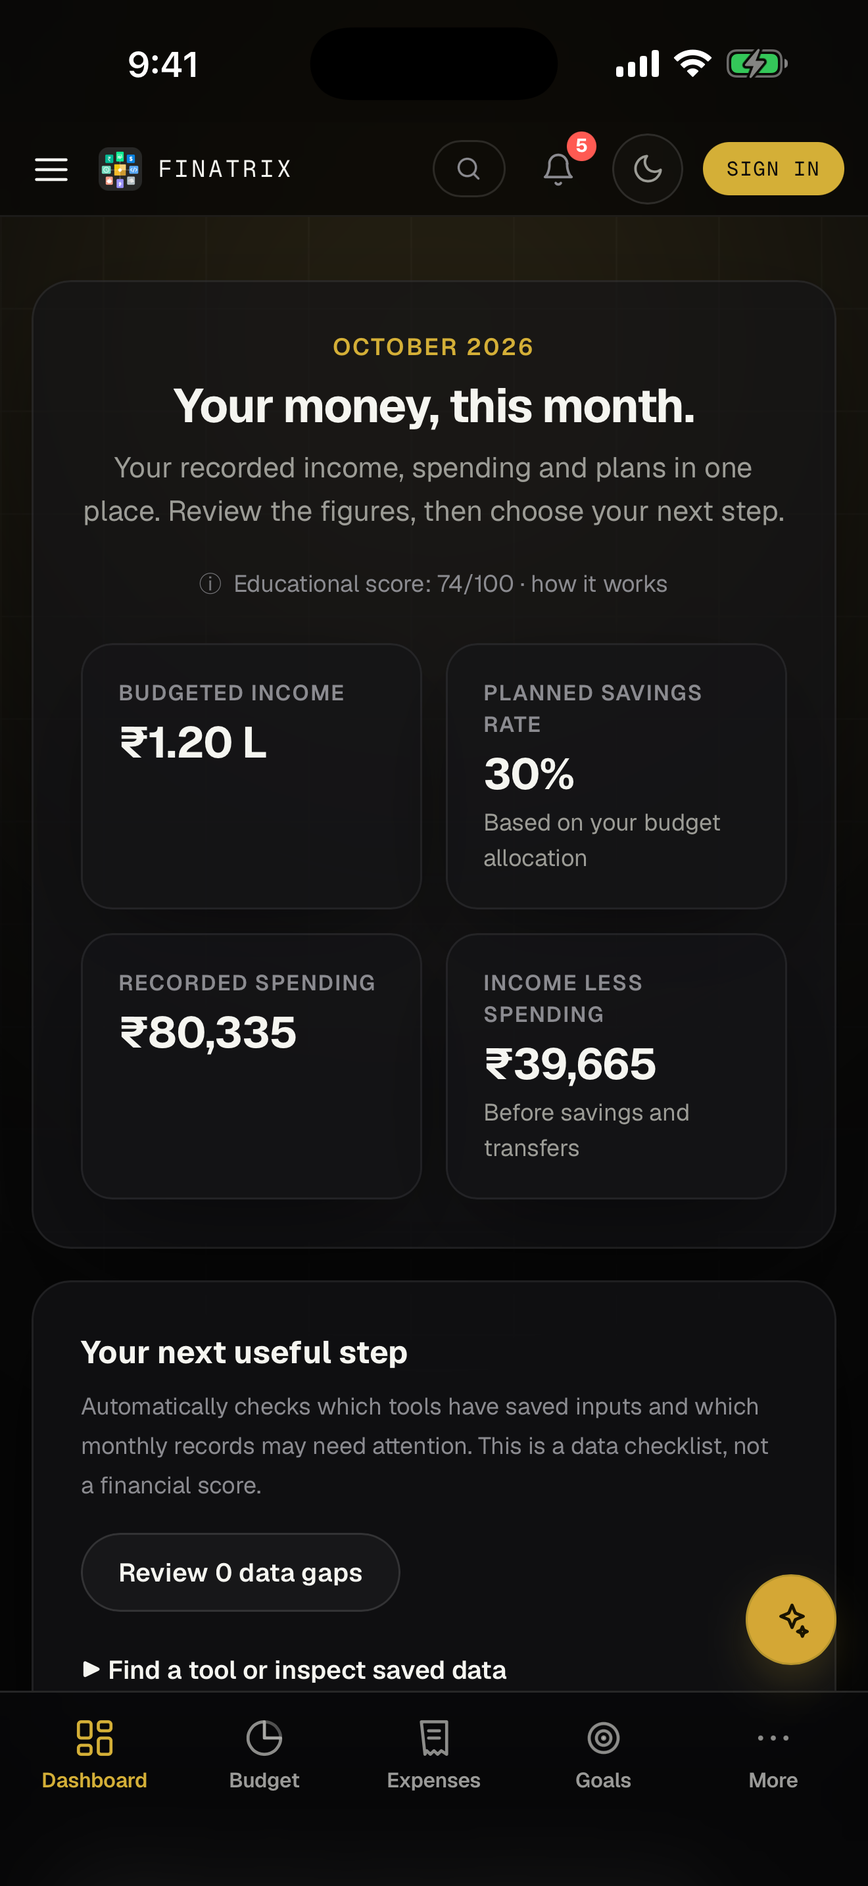
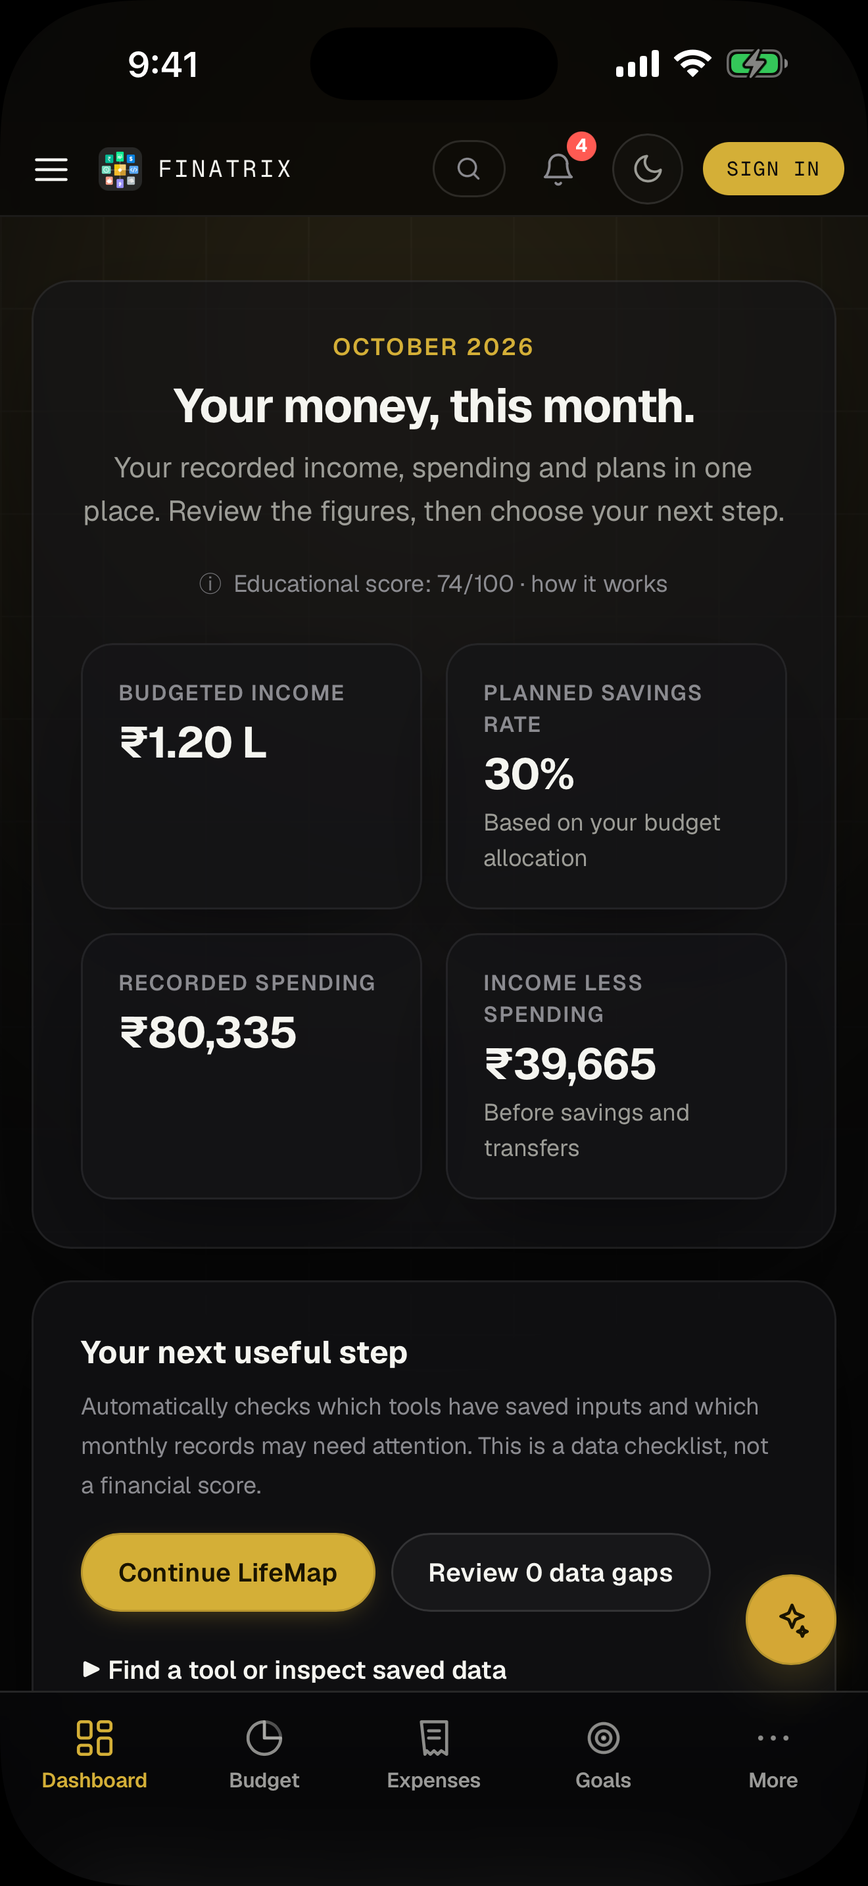
Run on the WebView 91 phones we can support, and keep PDF import honest
Builds on the WebView gate: instead of turning away every WebView older
than the compile target, the bundle now targets Chrome 91 / Safari 15.4
(the iOS deployment target) and a tiny classic script, public/compat.js,
supplies the two built-ins WebView 91 lacks (Array.prototype.at,
Object.hasOwn) before the module graph starts. Verified on an Android 11
emulator with its factory WebView 91: every tool, Reports, Settings and
sign-in render with no console errors. Older WebViews (66, 53) still get
the update prompt, which is now blocking (Update / Close app) because
"continue" only led back to a blank screen.

PDF statement and résumé import use pdf.js's legacy build, whose official
floor is Chrome 125 / Safari 18; below that the import sheet says PDF is
unavailable and offers CSV, Excel or a photo instead of failing mid-read.
XLSX import gains a lazy, size-capped fflate inflater for WebKit builds
without DecompressionStream('deflate-raw') (iOS 15.4-16.3).

Also: the AI panel records its opener before the page becomes inert (an
inert element loses focus, so reading it afterwards found <body>); peer
comparison checkboxes get 24px targets (WCAG 2.5.8); iOS App Store
screenshots 1-6 (opaque 1320x2868, fictional data) with a repeatable
capture script; e2e/compatibility-import.spec.ts reads a real PDF in
Chromium, Pixel 7 and WebKit.

Changed region(s): [[0.0932, 0.8068, 0.4348, 0.8689], [0.497, 0.8068, 0.7765, 0.8379]]

diff --git a/src/test/xlsxImport.test.ts b/src/test/xlsxImport.test.ts
@@ -1,4 +1,5 @@
-import { describe, it, expect } from 'vitest';
+import { describe, it, expect, vi } from 'vitest';
+import { deflateRawSync } from 'node:zlib';
 import { readWorkbookGrid } from '../tools/lib/import/xlsx';
 import { parseStatementMatrix } from '../tools/lib/import/csv';
 import { buildDrafts } from '../tools/lib/import/draft';
@@ -39,7 +40,7 @@ function u32(n: number): number[] {
  * directory walk; the inflate path is the platform's own DecompressionStream
  * and is not this reader's code to prove.
  */
-function zip(parts: Part[]): Uint8Array {
+function zip(parts: Part[], method = 0): Uint8Array {
   const encoder = new TextEncoder();
   const local: number[] = [];
   const central: number[] = [];
@@ -48,23 +49,25 @@ function zip(parts: Part[]): Uint8Array {
   for (const part of parts) {
     const name = encoder.encode(part.name);
     const body = encoder.encode(part.body);
+    const compressed = method === 8 ? deflateRawSync(body) : body;
     offsets.push(local.length);
     local.push(
-      ...u32(0x04034b50), ...u16(20), ...u16(0), ...u16(0), ...u16(0), ...u16(0),
+      ...u32(0x04034b50), ...u16(20), ...u16(0), ...u16(method), ...u16(0), ...u16(0),
       ...u32(0),                    // crc32 — not checked by the reader
-      ...u32(body.length), ...u32(body.length),
+      ...u32(compressed.length), ...u32(body.length),
       ...u16(name.length), ...u16(0),
-      ...name, ...body,
+      ...name, ...compressed,
     );
   }
 
   parts.forEach((part, i) => {
     const name = encoder.encode(part.name);
     const body = encoder.encode(part.body);
+    const compressed = method === 8 ? deflateRawSync(body) : body;
     central.push(
-      ...u32(0x02014b50), ...u16(20), ...u16(20), ...u16(0), ...u16(0), ...u16(0), ...u16(0),
+      ...u32(0x02014b50), ...u16(20), ...u16(20), ...u16(0), ...u16(method), ...u16(0), ...u16(0),
       ...u32(0),
-      ...u32(body.length), ...u32(body.length),
+      ...u32(compressed.length), ...u32(body.length),
       ...u16(name.length), ...u16(0), ...u16(0), ...u16(0), ...u16(0),
       ...u32(0), ...u32(offsets[i]),
       ...name,
@@ -89,18 +92,29 @@ const SHARED = (values: string[]) =>
 /** Style 0 is General; style 1 points at built-in date format 14 (dd/mm/yyyy). */
 const STYLES = `<?xml version="1.0"?><styleSheet xmlns="http://schemas.openxmlformats.org/spreadsheetml/2006/main"><cellXfs count="2"><xf numFmtId="0"/><xf numFmtId="14"/></cellXfs></styleSheet>`;
 
-function workbook(sheet: string, shared: string[] = [], styles = STYLES): File {
+function workbook(sheet: string, shared: string[] = [], styles = STYLES, compressed = false): File {
   const bytes = zip([
     { name: 'xl/worksheets/sheet1.xml', body: sheet },
     { name: 'xl/sharedStrings.xml', body: SHARED(shared) },
     { name: 'xl/styles.xml', body: styles },
-  ]);
+  ], compressed ? 8 : 0);
   return new File([bytes as BlobPart], 'statement.xlsx');
 }
 
 /* ── The tests ──────────────────────────────────────────────────────────── */
 
 describe('reading an .xlsx', () => {
+  it('reads a compressed workbook without DecompressionStream on older WebKit', async () => {
+    vi.stubGlobal('DecompressionStream', undefined);
+    try {
+      const sheet = SHEET_XML('<row r="1"><c r="A1" t="s"><v>0</v></c><c r="B1"><v>1250.5</v></c></row>');
+      expect(await readWorkbookGrid(workbook(sheet, ['Blue Bottle'], STYLES, true)))
+        .toEqual([['Blue Bottle', '1250.5']]);
+    } finally {
+      vi.unstubAllGlobals();
+    }
+  });
+
   it('reads a grid, resolving text through the shared string table', async () => {
     // Text in a worksheet is a POINTER into sharedStrings, not a literal. A
     // reader that skips that table sees a grid of numbers with no descriptions,

diff --git a/src/tools/lib/import/xlsx.ts b/src/tools/lib/import/xlsx.ts
@@ -26,8 +26,8 @@
  * `DOMParser`, which the browser already has and which does not resolve
  * external entities.
  *
- * The ZIP is inflated with `DecompressionStream('deflate-raw')` — a platform
- * API, no dependency, and one that cannot be made to execute anything. What
+ * The ZIP is inflated with `DecompressionStream('deflate-raw')` when available.
+ * Older WKWebViews use a small, lazy-loaded fflate fallback instead. What
  * this file adds is about 150 lines of central-directory walking, which is a
  * far smaller and far more auditable surface than a general-purpose workbook
  * parser that also understands formulas, macros and defined names.
@@ -157,12 +157,40 @@ async function readEntry(bytes: Uint8Array, view: DataView, entry: ZipEntry): Pr
   if (entry.method !== 8) {
     throw new StatementParseError('This spreadsheet uses a compression method FinatriX cannot read. Please save it as .xlsx or export it as CSV.');
   }
-  if (typeof DecompressionStream !== 'function') {
-    throw new StatementParseError('This browser cannot open spreadsheets. Please export the statement as CSV instead.');
+  let nativeInflater: DecompressionStream | null = null;
+  try {
+    if (typeof DecompressionStream === 'function') nativeInflater = new DecompressionStream('deflate-raw');
+  } catch {
+    // Some engines expose DecompressionStream but do not accept deflate-raw.
+  }
+  if (!nativeInflater) {
+    // The fallback is loaded only when an older WebView opens a compressed
+    // spreadsheet. Feed small compressed chunks so a false ZIP size cannot
+    // allocate unbounded output before the declared and absolute caps apply.
+    try {
+      const { Inflate } = await import('fflate');
+      const decoder = new TextDecoder();
+      let total = 0;
+      let text = '';
+      const inflate = new Inflate((chunk) => {
+        total += chunk.byteLength;
+        if (total > MAX_XML_BYTES || total > entry.uncompressedSize) throw new StatementParseError(TOO_LARGE);
+        text += decoder.decode(chunk, { stream: true });
+      });
+      for (let offset = 0; offset < body.length; offset += 8192) {
+        const end = Math.min(offset + 8192, body.length);
+        inflate.push(body.subarray(offset, end), end === body.length);
+      }
+      if (total !== entry.uncompressedSize) throw new StatementParseError(DAMAGED);
+      return text + decoder.decode();
+    } catch (error) {
+      if (error instanceof StatementParseError) throw error;
+      throw new StatementParseError('Could not decompress this spreadsheet. Please re-export it or use CSV.');
+    }
   }
   try {
     const reader = new Blob([body as BlobPart]).stream()
-      .pipeThrough(new DecompressionStream('deflate-raw')).getReader();
+      .pipeThrough(nativeInflater).getReader();
     const decoder = new TextDecoder();
     let total = 0;
     let text = '';

diff --git a/src/tools/ui/PublishedPeerComparison.tsx b/src/tools/ui/PublishedPeerComparison.tsx
@@ -71,12 +71,12 @@ export function PublishedPeerComparison({ market }: { market: MarketPack }) {
       </div>}
       <h2 style={{ fontSize: 17 }}>Check that like is being compared with like</h2>
       <p className="note">{[confirmed, definitionChecked, periodChecked].filter(Boolean).length} of 3 matching checks complete. If any check is uncertain, use the published figure as context without generating a personal comparison.</p>
-      <label style={{ display: 'flex', alignItems: 'center', gap: 12, minHeight: 48, margin: '14px 0' }}>
+      <label className="fx-peer-check" style={{ display: 'flex', alignItems: 'center', gap: 12, minHeight: 48, margin: '14px 0' }}>
         <input type="checkbox" checked={confirmed} onChange={(e) => { setConfirmed(e.target.checked); setResult(null); }} />
         My figure matches the reference population and household or person basis.
       </label>
-      <label style={{ display: 'flex', alignItems: 'center', gap: 12, minHeight: 48, margin: '14px 0' }}><input type="checkbox" checked={definitionChecked} onChange={(e) => { setDefinitionChecked(e.target.checked); setResult(null); }} />My figure follows the stated income or net-worth definition.</label>
-      <label style={{ display: 'flex', alignItems: 'center', gap: 12, minHeight: 48, margin: '14px 0' }}><input type="checkbox" checked={periodChecked} onChange={(e) => { setPeriodChecked(e.target.checked); setResult(null); }} />My figure uses {row.currency}, {row.unit}, and the {row.period} price and reporting period.</label>
+      <label className="fx-peer-check" style={{ display: 'flex', alignItems: 'center', gap: 12, minHeight: 48, margin: '14px 0' }}><input type="checkbox" checked={definitionChecked} onChange={(e) => { setDefinitionChecked(e.target.checked); setResult(null); }} />My figure follows the stated income or net-worth definition.</label>
+      <label className="fx-peer-check" style={{ display: 'flex', alignItems: 'center', gap: 12, minHeight: 48, margin: '14px 0' }}><input type="checkbox" checked={periodChecked} onChange={(e) => { setPeriodChecked(e.target.checked); setResult(null); }} />My figure uses {row.currency}, {row.unit}, and the {row.period} price and reporting period.</label>
       {error && <p role="alert">{error}</p>}
       <button className="btn" type="submit">Compare matching figures</button>
       {result !== null && <div role="status" style={{ marginTop: 20 }}>

diff --git a/src/test/webviewFloor.test.ts b/src/test/webviewFloor.test.ts
@@ -1,12 +1,11 @@
 import { describe, expect, it } from 'vitest';
 import { readFileSync } from 'node:fs';
 import { resolve } from 'node:path';
+import { runInNewContext } from 'node:vm';
 
 /**
  * The Android app checks the WebView version at launch and offers an update
- * below MainActivity.MIN_WEBVIEW_MAJOR — because below the engines the bundle
- * is compiled for, it does not degrade, it renders nothing (measured: WebView
- * 91 stops at the first `Array.prototype.at`). The gate is only honest while it
+ * below MainActivity.MIN_WEBVIEW_MAJOR. The gate is only honest while it
  * equals the build target, so the two are read from source and compared.
  */
 const read = (p: string) => readFileSync(resolve(__dirname, '../..', p), 'utf8');
@@ -29,6 +28,16 @@ describe('Android WebView floor', () => {
   it('reads the version from the WebView in use and offers the store page, not a dead end', () => {
     expect(activity).toMatch(/WebSettings\.getDefaultUserAgent/);
     expect(activity).toMatch(/market:\/\/details\?id=/);
-    expect(activity).toMatch(/webview_outdated_continue/);
+    expect(activity).toMatch(/webview_outdated_close/);
+    expect(activity).toMatch(/setCancelable\(false\)/);
+    expect(activity).toMatch(/getButton\(AlertDialog\.BUTTON_POSITIVE\)\.setOnClickListener/);
+  });
+
+  it('loads the missing built-ins before the module graph starts', () => {
+    const html = read('index.html');
+    expect(html.indexOf('src="/compat.js"')).toBeGreaterThan(0);
+    expect(html.indexOf('src="/compat.js"')).toBeLessThan(html.indexOf('src="/src/main.tsx"'));
+    const result = runInNewContext(`Array.prototype.at = undefined; Object.hasOwn = undefined; ${read('public/compat.js')}; [1, 2, 3].at(-1) + Number(Object.hasOwn({ x: 1 }, 'x'))`);
+    expect(result).toBe(4);
   });
 });

diff --git a/src/tools/ui/AiPanel.tsx b/src/tools/ui/AiPanel.tsx
@@ -49,6 +49,8 @@ const REVIEW_PROMPT = 'Create a monthly review';
 export interface AiPanelProps {
   id: string;
   onClose: () => void;
+  /** Captured before the dialog makes the underlying page inert. */
+  returnFocus?: HTMLElement | null;
   /** What the user was looking at when they opened it; null for the plain FAB. */
   focus?: AiFocus | null;
   /**
@@ -65,7 +67,7 @@ export default function AiPanel(props: AiPanelProps) {
   return <AccountAiPanel key={user?.id ?? 'signed-out'} {...props} />;
 }
 
-function AccountAiPanel({ id, onClose, focus = null, openedAt = 0 }: AiPanelProps) {
+function AccountAiPanel({ id, onClose, returnFocus = null, focus = null, openedAt = 0 }: AiPanelProps) {
   const { user, configured } = useAuth();
   const { code } = useCurrency();
   const uid = user?.id ?? '';
@@ -131,7 +133,7 @@ function AccountAiPanel({ id, onClose, focus = null, openedAt = 0 }: AiPanelProp
   // focus falls to the dialog itself rather than being left on <body>, where a
   // screen reader would never enter the dialog at all.
   useEffect(() => {
-    lastFocused.current = document.activeElement as HTMLElement | null;
+    lastFocused.current = returnFocus ?? document.activeElement as HTMLElement | null;
     const t = setTimeout(() => {
       // Something inside the dialog already has focus — the consent card's
       // "Allow and send", say — so this deferred default must not take it back.
@@ -145,7 +147,7 @@ function AccountAiPanel({ id, onClose, focus = null, openedAt = 0 }: AiPanelProp
       clearTimeout(t);
       lastFocused.current?.focus?.();
     };
-  }, []);
+  }, [returnFocus]);
 
   // The page behind is out of reach for swipe-driven screen readers too.
   useInertOutside(cardRef);

diff --git a/src/lib/pdfCompatibility.ts b/src/lib/pdfCompatibility.ts
@@ -1,0 +1,27 @@
+/**
+ * pdf.js 6's legacy distribution supports Chrome 125+ and Safari 18+.
+ * Keep its higher floor local to PDF import; calculators and CSV import work
+ * on older engines. The capability checks cover WebViews with unusual user
+ * agents, while the engine checks cover requirements a simple API probe misses.
+ */
+export function pdfCompatibilityMessage(userAgent: string = navigator.userAgent): string | null {
+  if (typeof Worker !== 'function' || typeof WebAssembly !== 'object' || typeof ReadableStream !== 'function') {
+    return 'PDF import is unavailable in this browser. Please import a CSV statement instead.';
+  }
+
+  const ios = /(?:iPhone|iPad|iPod).*?OS (\d+)[_.]/.exec(userAgent);
+  if (ios && Number(ios[1]) < 18) {
+    return 'PDF import needs iOS 18 or later. You can still import CSV or Excel statements on this device.';
+  }
+
+  const chromium = /(?:Chrome|Chromium|CriOS)\/(\d+)/.exec(userAgent);
+  if (chromium && Number(chromium[1]) < 125) {
+    return 'PDF import needs a newer Android System WebView or browser. Update it from the app store, or import a CSV or Excel statement.';
+  }
+
+  const safari = /Version\/(\d+)(?:\.\d+)?[^\n]*Safari\//.exec(userAgent);
+  if (safari && !chromium && Number(safari[1]) < 18) {
+    return 'PDF import needs Safari 18 or later. You can still import CSV or Excel statements.';
+  }
+  return null;
+}

diff --git a/src/tools/ui/StatementImport.tsx b/src/tools/ui/StatementImport.tsx
@@ -30,6 +30,7 @@ import { ACCEPT_ATTRIBUTE } from '../lib/import/extract';
 import { needsReview, isImportable } from '../lib/import/status';
 import { useStatementImport } from '../lib/import/useStatementImport';
 import { AI_RECIPIENT } from '../../lib/ai/consent';
+import { pdfCompatibilityMessage } from '../../lib/pdfCompatibility';
 import type { DraftRow, CategoryOrigin, ImportSummary } from '../lib/import/types';
 
 interface Props {
@@ -373,6 +374,7 @@ function IdlePane({
   onDiscard: () => void;
 }) {
   const inputId = useId();
+  const pdfUnavailable = pdfCompatibilityMessage();
 
   return (
     <div className="fx-imp-state">
@@ -396,9 +398,10 @@ function IdlePane({
       >
         <p className="fx-imp-state-title">Drop a bank or credit card statement</p>
         <p className="fx-imp-note">
-          CSV, Excel, PDF — or a screenshot or photo of one.
-          Password-protected PDFs are supported.
+          CSV, Excel{pdfUnavailable ? '' : ', PDF'} — or a screenshot or photo of one.
+          {!pdfUnavailable && ' Password-protected PDFs are supported.'}
         </p>
+        {pdfUnavailable && <p className="fx-imp-note" role="status">{pdfUnavailable}</p>}
         <label className="fx-imp-btn fx-imp-primary fx-imp-filebtn" htmlFor={inputId}>Choose a file</label>
         <input
           id={inputId}

diff --git a/src/test/pdfCompatibility.test.ts b/src/test/pdfCompatibility.test.ts
@@ -1,0 +1,26 @@
+import { describe, expect, it, vi } from 'vitest';
+import { pdfCompatibilityMessage } from '../lib/pdfCompatibility';
+
+describe('PDF stays an optional feature on older engines', () => {
+  it('explains the iOS and Android floors while leaving newer engines enabled', () => {
+    vi.stubGlobal('Worker', class {});
+    vi.stubGlobal('ReadableStream', class {});
+    vi.stubGlobal('WebAssembly', {});
+    try {
+      expect(pdfCompatibilityMessage('Mozilla/5.0 (iPhone; CPU iPhone OS 15_4 like Mac OS X) AppleWebKit/605.1.15 Mobile/15E148'))
+        .toMatch(/iOS 18/);
+      expect(pdfCompatibilityMessage('Mozilla/5.0 (Linux; Android 11) AppleWebKit/537.36 Chrome/91.0.4472.114 Mobile Safari/537.36'))
+        .toMatch(/newer Android System WebView/);
+      expect(pdfCompatibilityMessage('Mozilla/5.0 (Linux; Android 16) AppleWebKit/537.36 Chrome/133.0.0.0 Mobile Safari/537.36'))
+        .toBeNull();
+      expect(pdfCompatibilityMessage('Mozilla/5.0 (iPhone; CPU iPhone OS 18_0 like Mac OS X) AppleWebKit/605.1.15 Mobile/15E148'))
+        .toBeNull();
+    } finally {
+      vi.unstubAllGlobals();
+    }
+  });
+
+  it('rejects an engine that lacks worker support even if its version is new', () => {
+    expect(pdfCompatibilityMessage('Chrome/133.0.0.0')).toMatch(/PDF import is unavailable/);
+  });
+});

diff --git a/e2e/compatibility-import.spec.ts b/e2e/compatibility-import.spec.ts
@@ -1,0 +1,30 @@
+import { expect, test } from '@playwright/test';
+import { jsPDF } from 'jspdf';
+
+function statementPdf(): Buffer {
+  const pdf = new jsPDF();
+  pdf.text([
+    'Account statement for October 2026',
+    'Date Description Debit Balance',
+    '01/10/2026 Blue Bottle Cafe 125.00 9875.00',
+    '02/10/2026 Market Groceries 230.00 9645.00',
+    '03/10/2026 Bus Ticket 35.00 9610.00',
+    '04/10/2026 Coffee Shop 45.00 9565.00',
+    '05/10/2026 Local Pharmacy 110.00 9455.00',
+  ], 12, 20);
+  return Buffer.from(pdf.output('arraybuffer'));
+}
+
+test('a supported engine loads the lazy PDF reader and shows transactions for review', async ({ page }) => {
+  await page.goto('/tools/expenses');
+  await page.getByRole('button', { name: 'Import', exact: true }).click();
+  const dialog = page.getByRole('dialog', { name: 'Import a statement' });
+  await dialog.locator('input[type="file"]').setInputFiles({
+    name: 'fictional-statement.pdf',
+    mimeType: 'application/pdf',
+    buffer: statementPdf(),
+  });
+  await expect(dialog.getByText('We could not read that file')).toHaveCount(0);
+  await expect(dialog.getByText(/Transactions found in fictional-statement\.pdf/)).toBeVisible();
+  await expect(dialog.getByText('Blue Bottle Cafe')).toBeVisible();
+});

diff --git a/e2e/ios-webkit.spec.ts b/e2e/ios-webkit.spec.ts
@@ -380,12 +380,13 @@ test.describe('WebKit behaviour the other engines cannot vouch for', () => {
     expect(text.replace(/\s+/g, ' ')).toContain('SALARY CREDIT 85000');
   });
 
-  test('offers Sign in with Apple on the sign-in screen', async ({ page }) => {
+  test('renders provider sign-in buttons as equal controls in WebKit', async ({ page }) => {
     await bootAsApp(page, insets);
-    // The app build sets VITE_AUTH_APPLE; a plain preview of the site may not,
-    // and `authProviders()` only forces Apple on when Capacitor reports iOS —
-    // which a browser cannot. So this asserts the part that must hold either
-    // way: Google is offered, and if Apple is offered it is an equal control.
+    // A browser cannot make Capacitor report iOS, so this runs the WEBSITE's
+    // provider rule: Google always, Apple once VITE_AUTH_APPLE=1. The iOS rule
+    // (no third-party login until Apple is configured, then Apple first) is
+    // pinned in src/test/authProviders.test.tsx. What only WebKit can show is
+    // the layout: when Apple is offered it is the same size as Google.
     await page.goto('/login');
     const google = page.getByRole('button', { name: 'Continue with Google' });
     await expect(google).toBeVisible();

diff --git a/src/tools/ui/AiAssistant.tsx b/src/tools/ui/AiAssistant.tsx
@@ -75,13 +75,15 @@ export function AiProvider({ enabled = true, children }: {
   // a second ✨ button while it is already open — without that, opening
   // "Groceries" from behind an open panel would silently do nothing.
   const [openedAt, setOpenedAt] = useState(0);
+  const [returnFocus, setReturnFocus] = useState<HTMLElement | null>(null);
 
   const open = useCallback((next: AiFocus | null = null) => {
     if (!enabled) return;
+    if (!isOpen) setReturnFocus(document.activeElement as HTMLElement | null);
     setFocus(next);
     setOpen(true);
     setOpenedAt((n) => n + 1);
-  }, [enabled]);
+  }, [enabled, isOpen]);
 
   const close = useCallback(() => setOpen(false), []);
 
@@ -98,7 +100,7 @@ export function AiProvider({ enabled = true, children }: {
         // where a dialog is about to appear reads as a glitch. The trigger keeps
         // focus until the panel mounts and takes it.
         <Suspense fallback={null}>
-          <AiPanel id={PANEL_ID} focus={focus} openedAt={openedAt} onClose={close} />
+          <AiPanel id={PANEL_ID} focus={focus} openedAt={openedAt} onClose={close} returnFocus={returnFocus} />
         </Suspense>
       )}
     </AiCtx.Provider>

diff --git a/vite.config.ts b/vite.config.ts
@@ -115,13 +115,11 @@ export default defineConfig(({ command, mode }) => {
       },
     },
     build: {
-      // The engines the bundle is compiled for — written out rather than left
-      // to Vite's default, because the installed apps depend on it: the
-      // Android app refuses politely below this Chrome version instead of
-      // rendering a blank screen (MainActivity.MIN_WEBVIEW_MAJOR, held equal
-      // by src/test/webviewFloor.test.ts). Same values as Vite 7's
-      // 'baseline-widely-available' default at the time of pinning.
-      target: ["chrome107", "edge107", "firefox104", "safari16"],
+      // Match the oldest Android WebView we can run and the declared iOS
+      // deployment target. Syntax transpilation does not polyfill built-ins:
+      // public/compat.js loads before the module entry for that small gap.
+      // Keep Chrome in sync with MainActivity.MIN_WEBVIEW_MAJOR.
+      target: ["chrome91", "edge91", "firefox91", "safari15.4"],
       // Separate the large, rarely-changing vendors into their own cacheable
       // chunks; route-level code-splitting (React.lazy) handles the rest.
       rollupOptions: {
